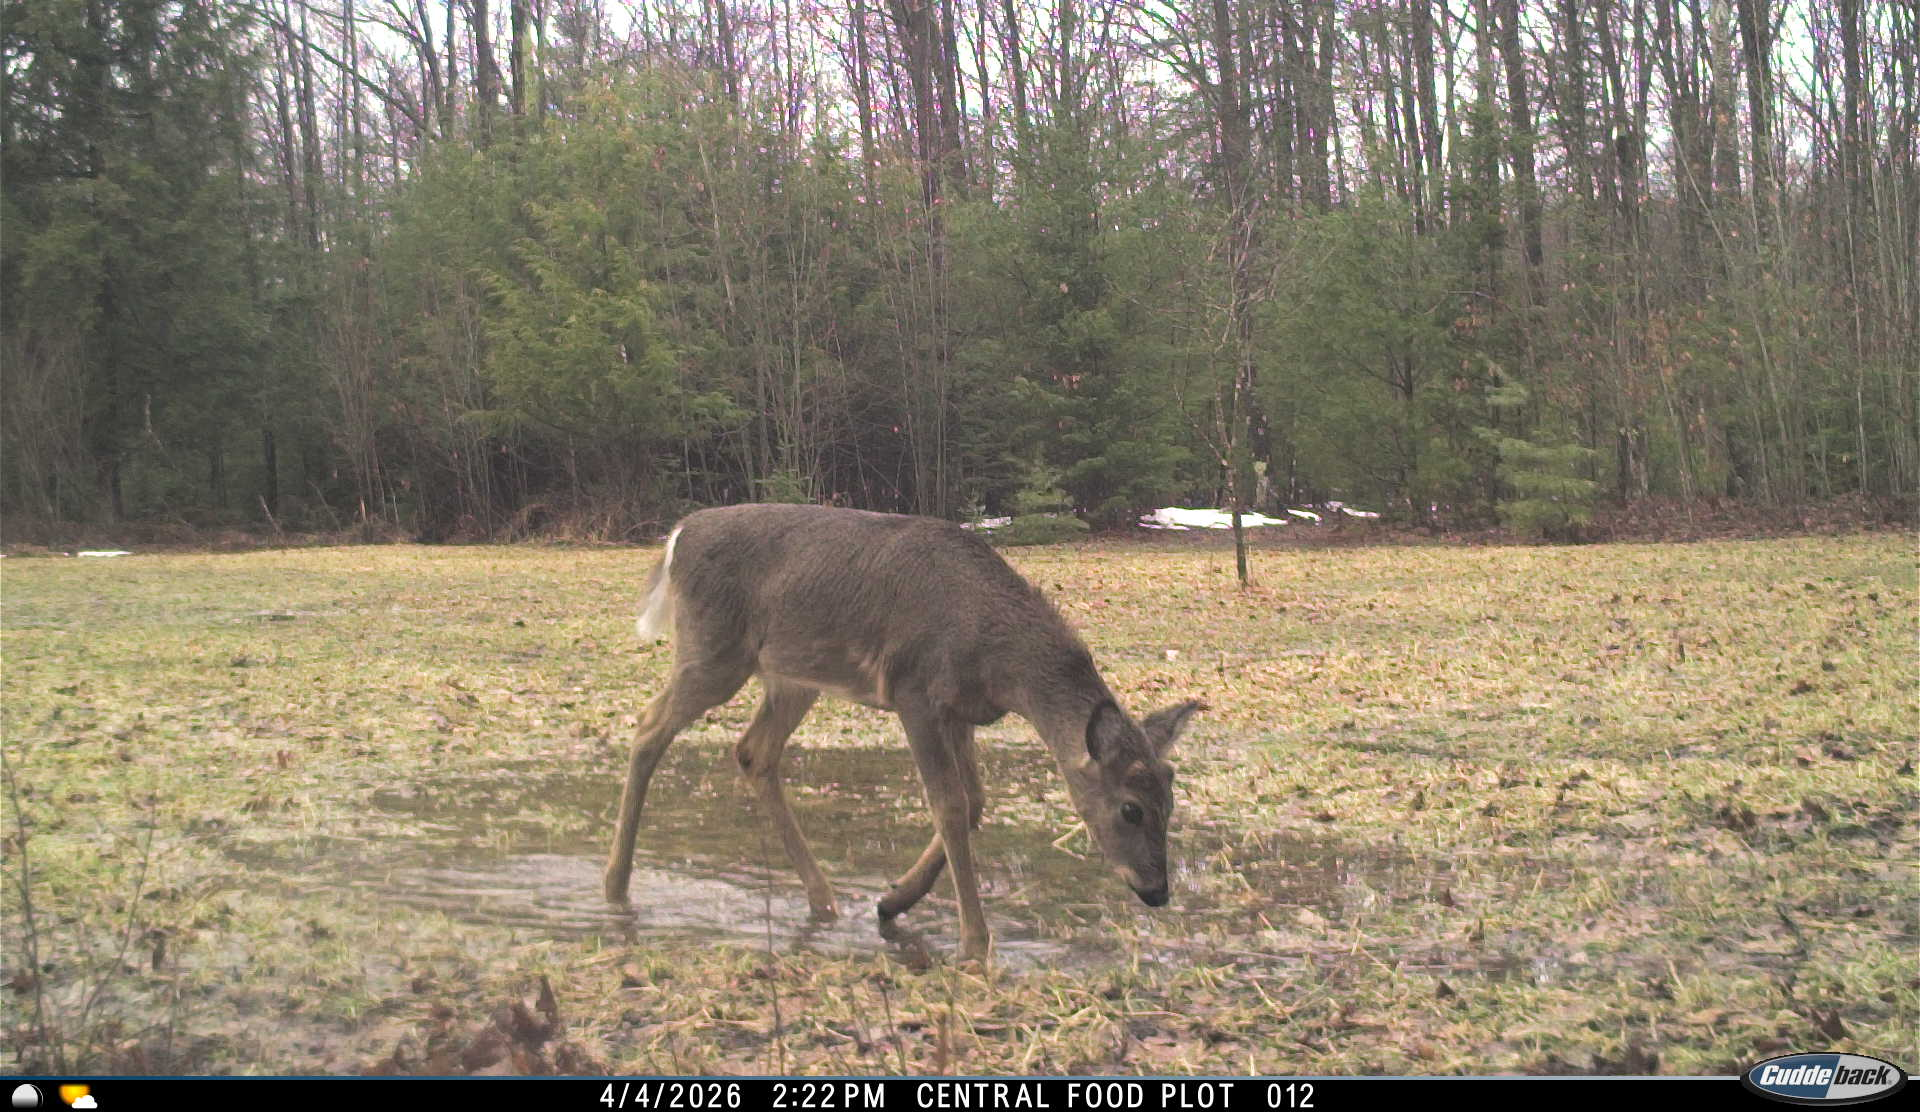
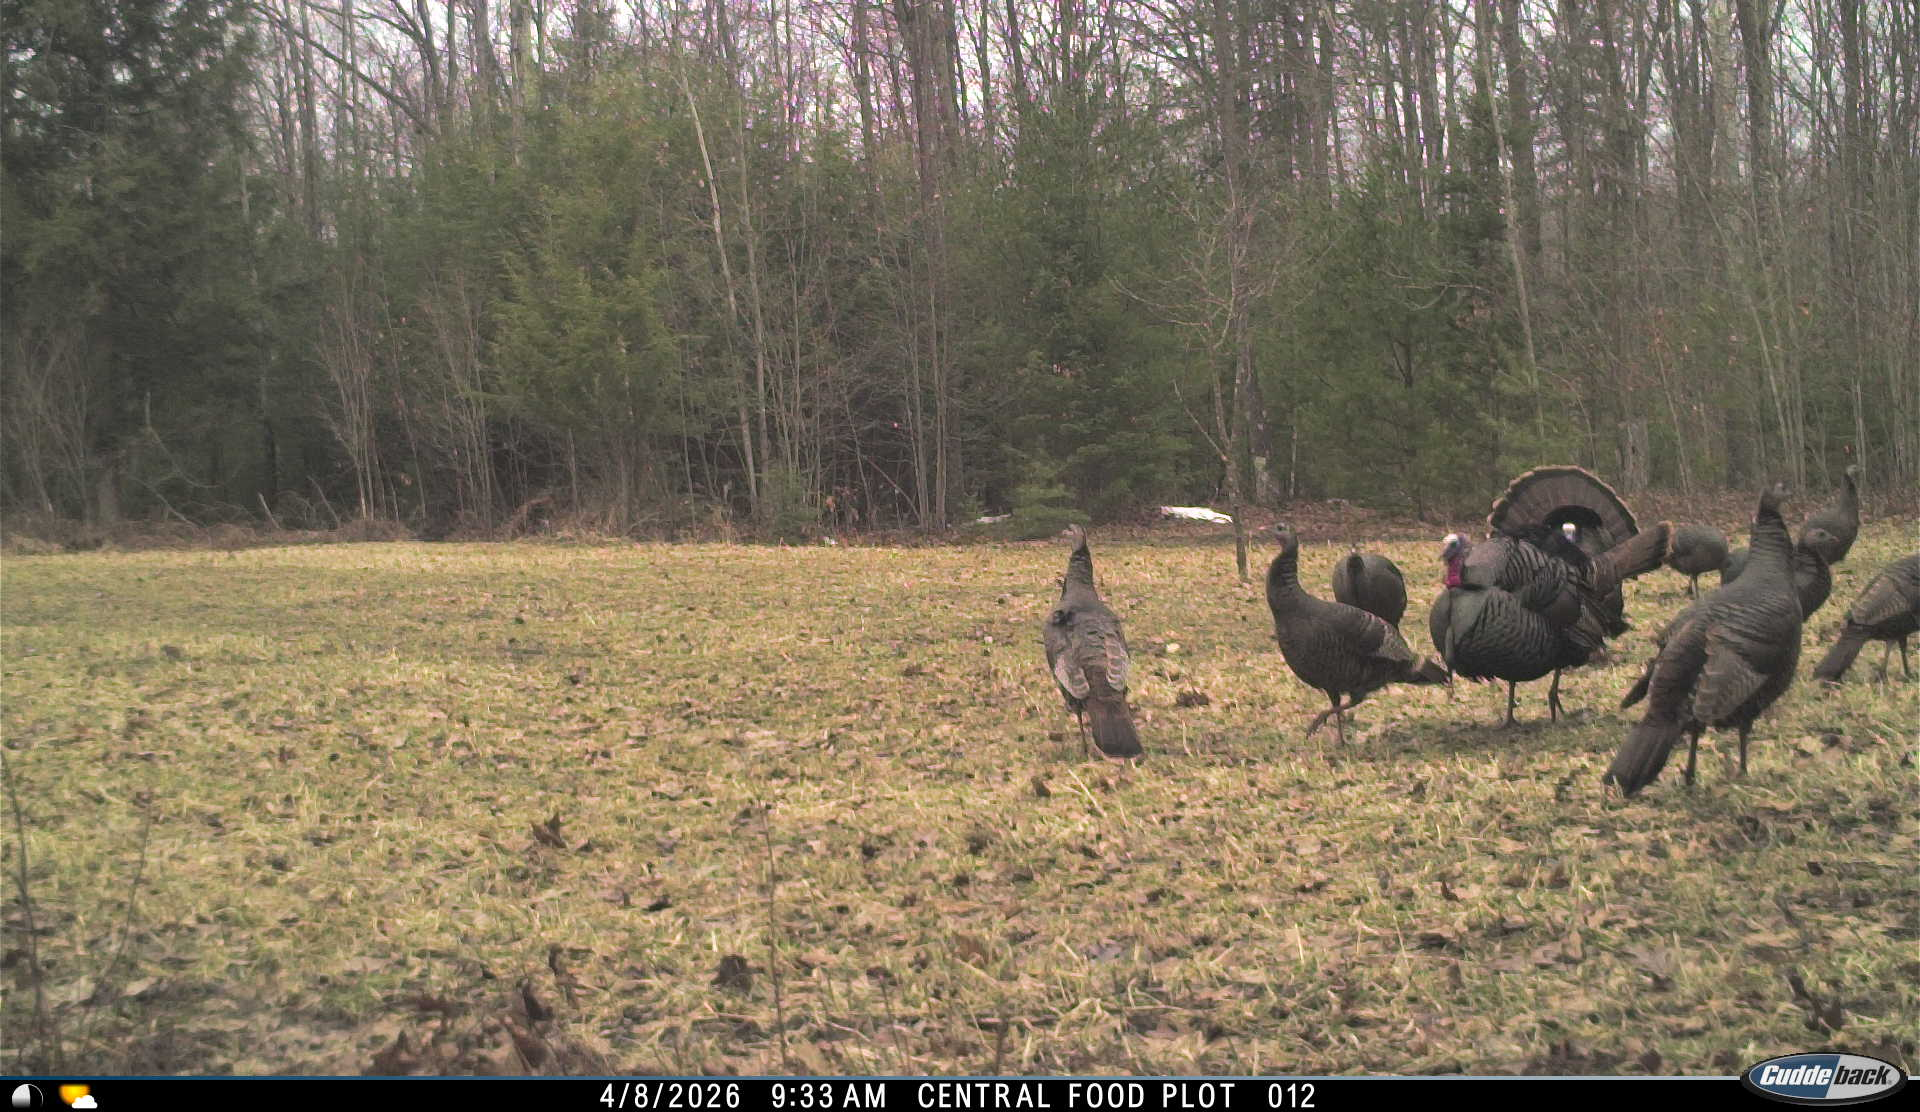
Update photo strip with new trail cam images (buck, bear, turkeys)

diff --git a/index.html b/index.html
@@ -99,24 +99,24 @@
 ════════════════════════════════════════════════════════ -->
 <div class="photo-strip">
   <div class="photo-strip-item">
-    <img src="assets/images/buck1.jpg" alt="Verified buck captured on Cuddeback trail camera, November 2025" loading="lazy">
+    <img src="assets/images/buck1.jpg" alt="Large buck at night captured on Cuddeback trail camera, November 2025" loading="lazy">
     <div class="photo-overlay">
-      <div class="photo-caption">Verified Buck</div>
-      <div class="photo-sub">Cuddeback CuddeLink · Nov 12, 2025 · 7:45 AM</div>
+      <div class="photo-caption">Buck — CAM 6</div>
+      <div class="photo-sub">Cuddeback CuddeLink · Nov 17, 2025 · 3:13 AM</div>
     </div>
   </div>
   <div class="photo-strip-item">
-    <img src="assets/images/buck2.jpg" alt="Buck in early snow captured on Cuddeback trail camera, November 2025" loading="lazy">
+    <img src="assets/images/buck2.jpg" alt="Black bear captured on Browning trail camera, June 2025" loading="lazy">
     <div class="photo-overlay">
-      <div class="photo-caption">Verified Buck</div>
-      <div class="photo-sub">Cuddeback CuddeLink · Nov 29, 2025 · 8:32 AM</div>
+      <div class="photo-caption">Black Bear</div>
+      <div class="photo-sub">Browning BTC-5HD Elite · Jun 21, 2025 · 6:58 PM</div>
     </div>
   </div>
   <div class="photo-strip-item">
-    <img src="assets/images/buck3.jpg" alt="Buck on food plot captured on Cuddeback trail camera, April 2026" loading="lazy">
+    <img src="assets/images/buck3.jpg" alt="Turkey flock on food plot captured on Cuddeback trail camera, April 2026" loading="lazy">
     <div class="photo-overlay">
-      <div class="photo-caption">Verified Buck</div>
-      <div class="photo-sub">Cuddeback CuddeLink · Apr 4, 2026 · 2:22 PM</div>
+      <div class="photo-caption">Turkey Flock — Central Food Plot</div>
+      <div class="photo-sub">Cuddeback CuddeLink · Apr 8, 2026 · 9:33 AM</div>
     </div>
   </div>
 </div>
